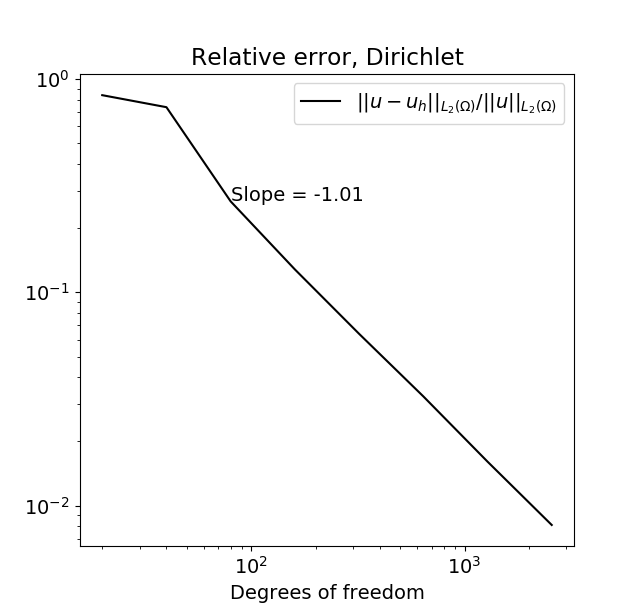
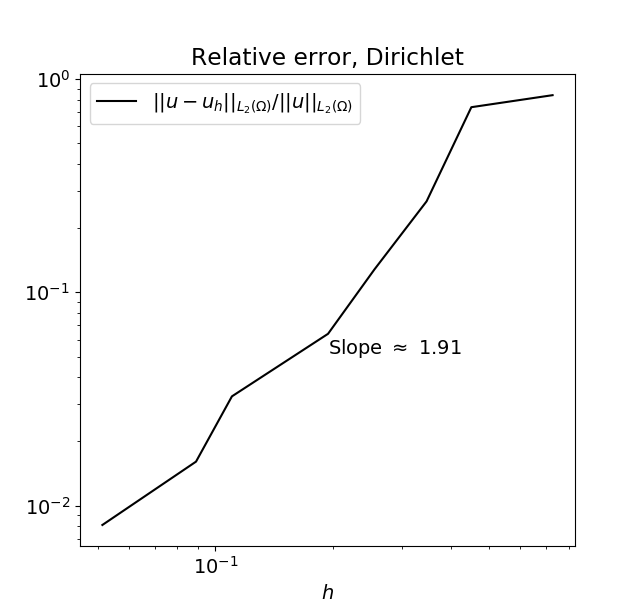
Change to convergence calculation to make it based on h, not DOF

diff --git a/project_1/convergence_plots.py b/project_1/convergence_plots.py
@@ -47,6 +47,7 @@ def dirichlet_convergence(show=True, quad_points=4):
         return BCtype.Dir
 
     Es = []
+    hs = []
     Ns = [20, 40, 80, 160, 320, 640, 1280, 2560]
     for N in Ns:
         print(f"Dirichlet: N = {N}")
@@ -55,24 +56,26 @@ def dirichlet_convergence(show=True, quad_points=4):
         FEM_solver.solve()
 
         e = FEM_solver.error_est(u_ex, quad_points)
+        h = FEM_solver.find_h()
 
         Es.append(e)
+        hs.append(h)
 
     norm_u = np.pi / 2
 
     Es = np.array(Es, dtype=float)
     Es_rel = Es / norm_u
-    Ns = np.array(Ns, dtype=float)
+    hs = np.array(hs, dtype=float)
 
-    betaD = beta(np.log(Ns), np.log(Es_rel))
+    betaD = beta(np.log(hs), np.log(Es_rel))
     print(f'Dirichlet: beta = {betaD}')
     
     plt.rcParams.update({'font.size': 14})
 
     plt.figure()
-    plt.loglog(Ns, Es_rel, 'k-', label=r"$||u - u_h||_{L_2(\Omega)} / ||u||_{L_2(\Omega)}$")
-    plt.text(Ns[2], Es_rel[2], f"Slope = {betaD:.2f}")
-    plt.xlabel("Degrees of freedom")
+    plt.loglog(hs, Es_rel, 'k-', label=r"$||u - u_h||_{L_2(\Omega)} / ||u||_{L_2(\Omega)}$")
+    plt.text(hs[4], 0.8*Es_rel[4], fr"Slope $\approx$ {betaD:.2f}")
+    plt.xlabel("$h$")
     plt.title("Relative error, Dirichlet")
     plt.legend()
 
@@ -109,6 +112,7 @@ def neumann_convergence(show=True, quad_points=4):
             return BCtype.Neu
 
     Es = []
+    hs = []
     Ns = [20, 40, 80, 160, 320, 640, 1280, 2560]
     for N in Ns:
         print(f"Neumann: N = {N}")
@@ -117,24 +121,26 @@ def neumann_convergence(show=True, quad_points=4):
         FEM_solver.solve()
 
         e = FEM_solver.error_est(u_ex, quad_points)
+        h = FEM_solver.find_h()
 
         Es.append(e)
+        hs.append(h)
 
     norm_u = np.pi / 2
 
     Es = np.array(Es, dtype=float)
     Es_rel = Es / norm_u
-    Ns = np.array(Ns, dtype=float)
+    hs = np.array(hs, dtype=float)
 
-    betaN = beta(np.log(Ns), np.log(Es_rel))
+    betaN = beta(np.log(hs), np.log(Es_rel))
     print(f'Neumann: beta = {betaN}')
 
     plt.rcParams.update({'font.size': 14})
 
     plt.figure()
-    plt.loglog(Ns, Es_rel, 'k-', label=r"$||u - u_h||_{L_2(\Omega)} / ||u||_{L_2(\Omega)}$")
-    plt.text(Ns[2], Es_rel[2], f"Slope = {betaN:.2f}")
-    plt.xlabel("Degrees of freedom")
+    plt.loglog(hs, Es_rel, 'k-', label=r"$||u - u_h||_{L_2(\Omega)} / ||u||_{L_2(\Omega)}$")
+    plt.text(hs[4], 0.8*Es_rel[4], fr"Slope $\approx$ {betaN:.2f}")
+    plt.xlabel("$h$")
     plt.title("Relative error, Neumann")
     plt.legend()
 

diff --git a/project_1/fem_2d_solver.py b/project_1/fem_2d_solver.py
@@ -405,6 +405,23 @@ class Poisson2DSolver():
 
         return np.sqrt(E)
 
+    def find_h(self):
+
+        h = 0
+
+        for k, element in enumerate(self.triang):
+
+            p1, p2, p3 = element
+            x1 = self.nodes[p1]
+            x2 = self.nodes[p2]
+            x3 = self.nodes[p3]
+            hk = max(np.linalg.norm(x2 - x1), np.linalg.norm(x3 - x1), np.linalg.norm(x3 - x2))
+
+            if hk > h:
+                h = hk
+
+        return h
+
     def evaluate(self, p):
         """
         Some smart generator function returning sum of basis functions at the point [x, y],
